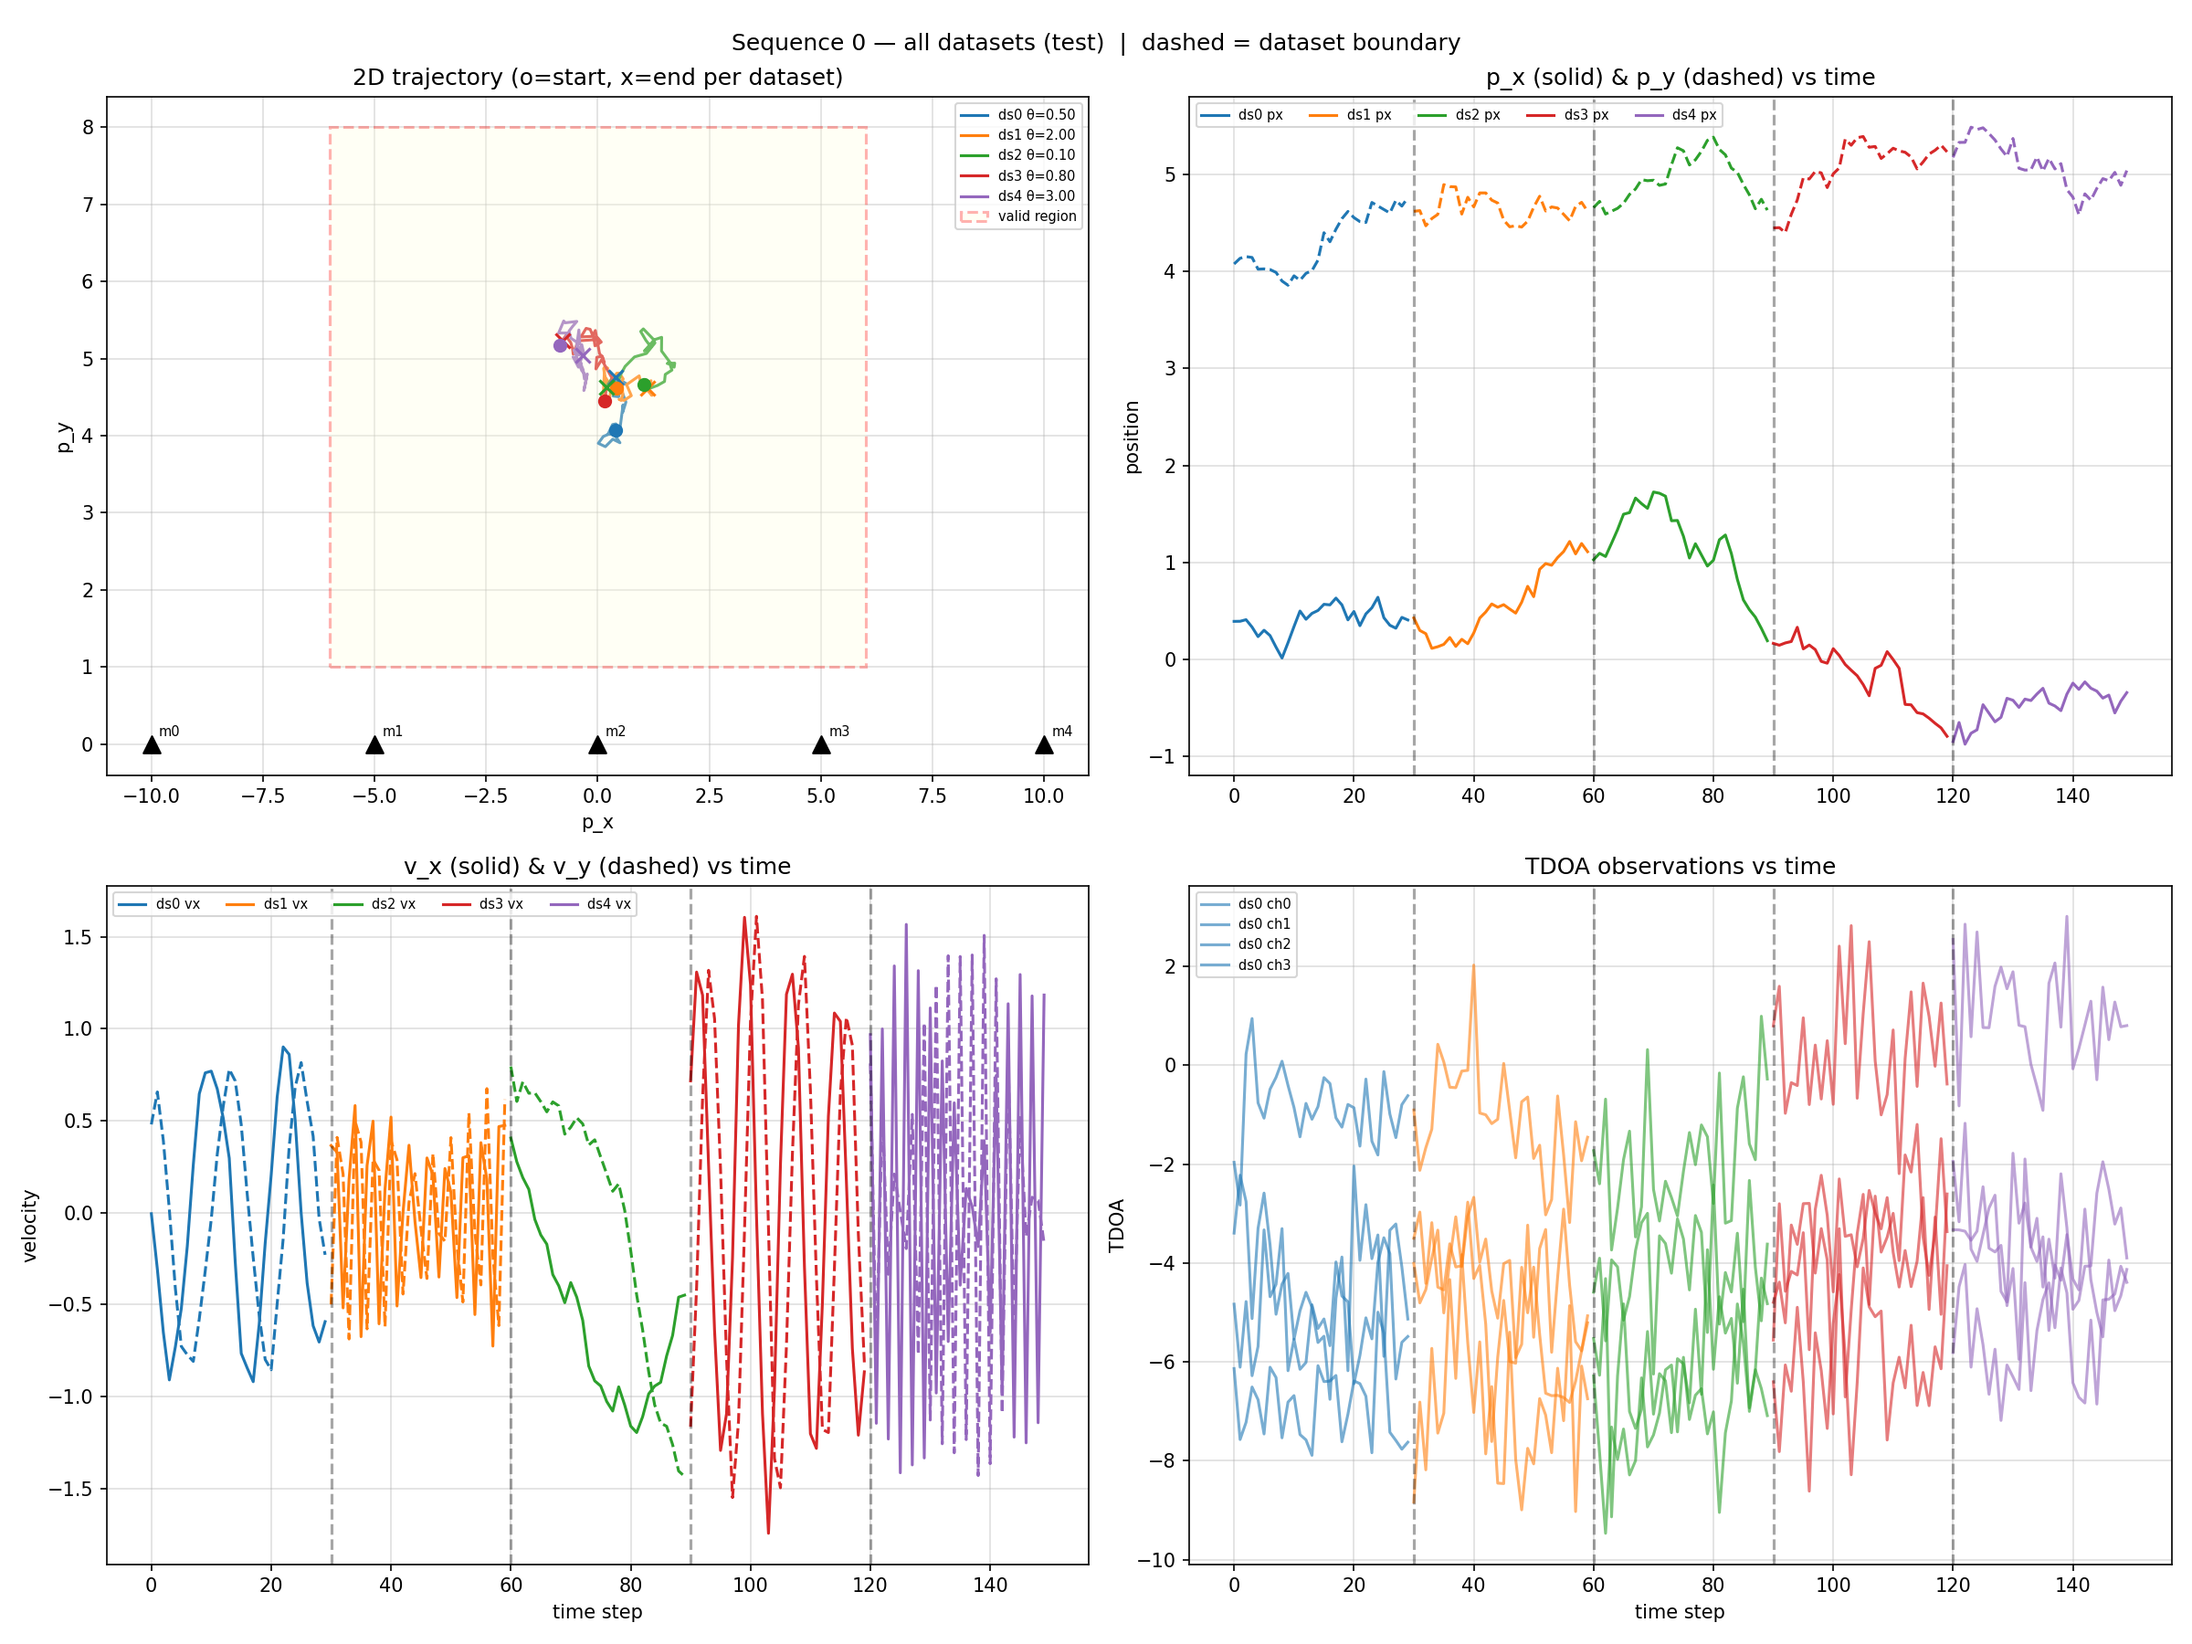
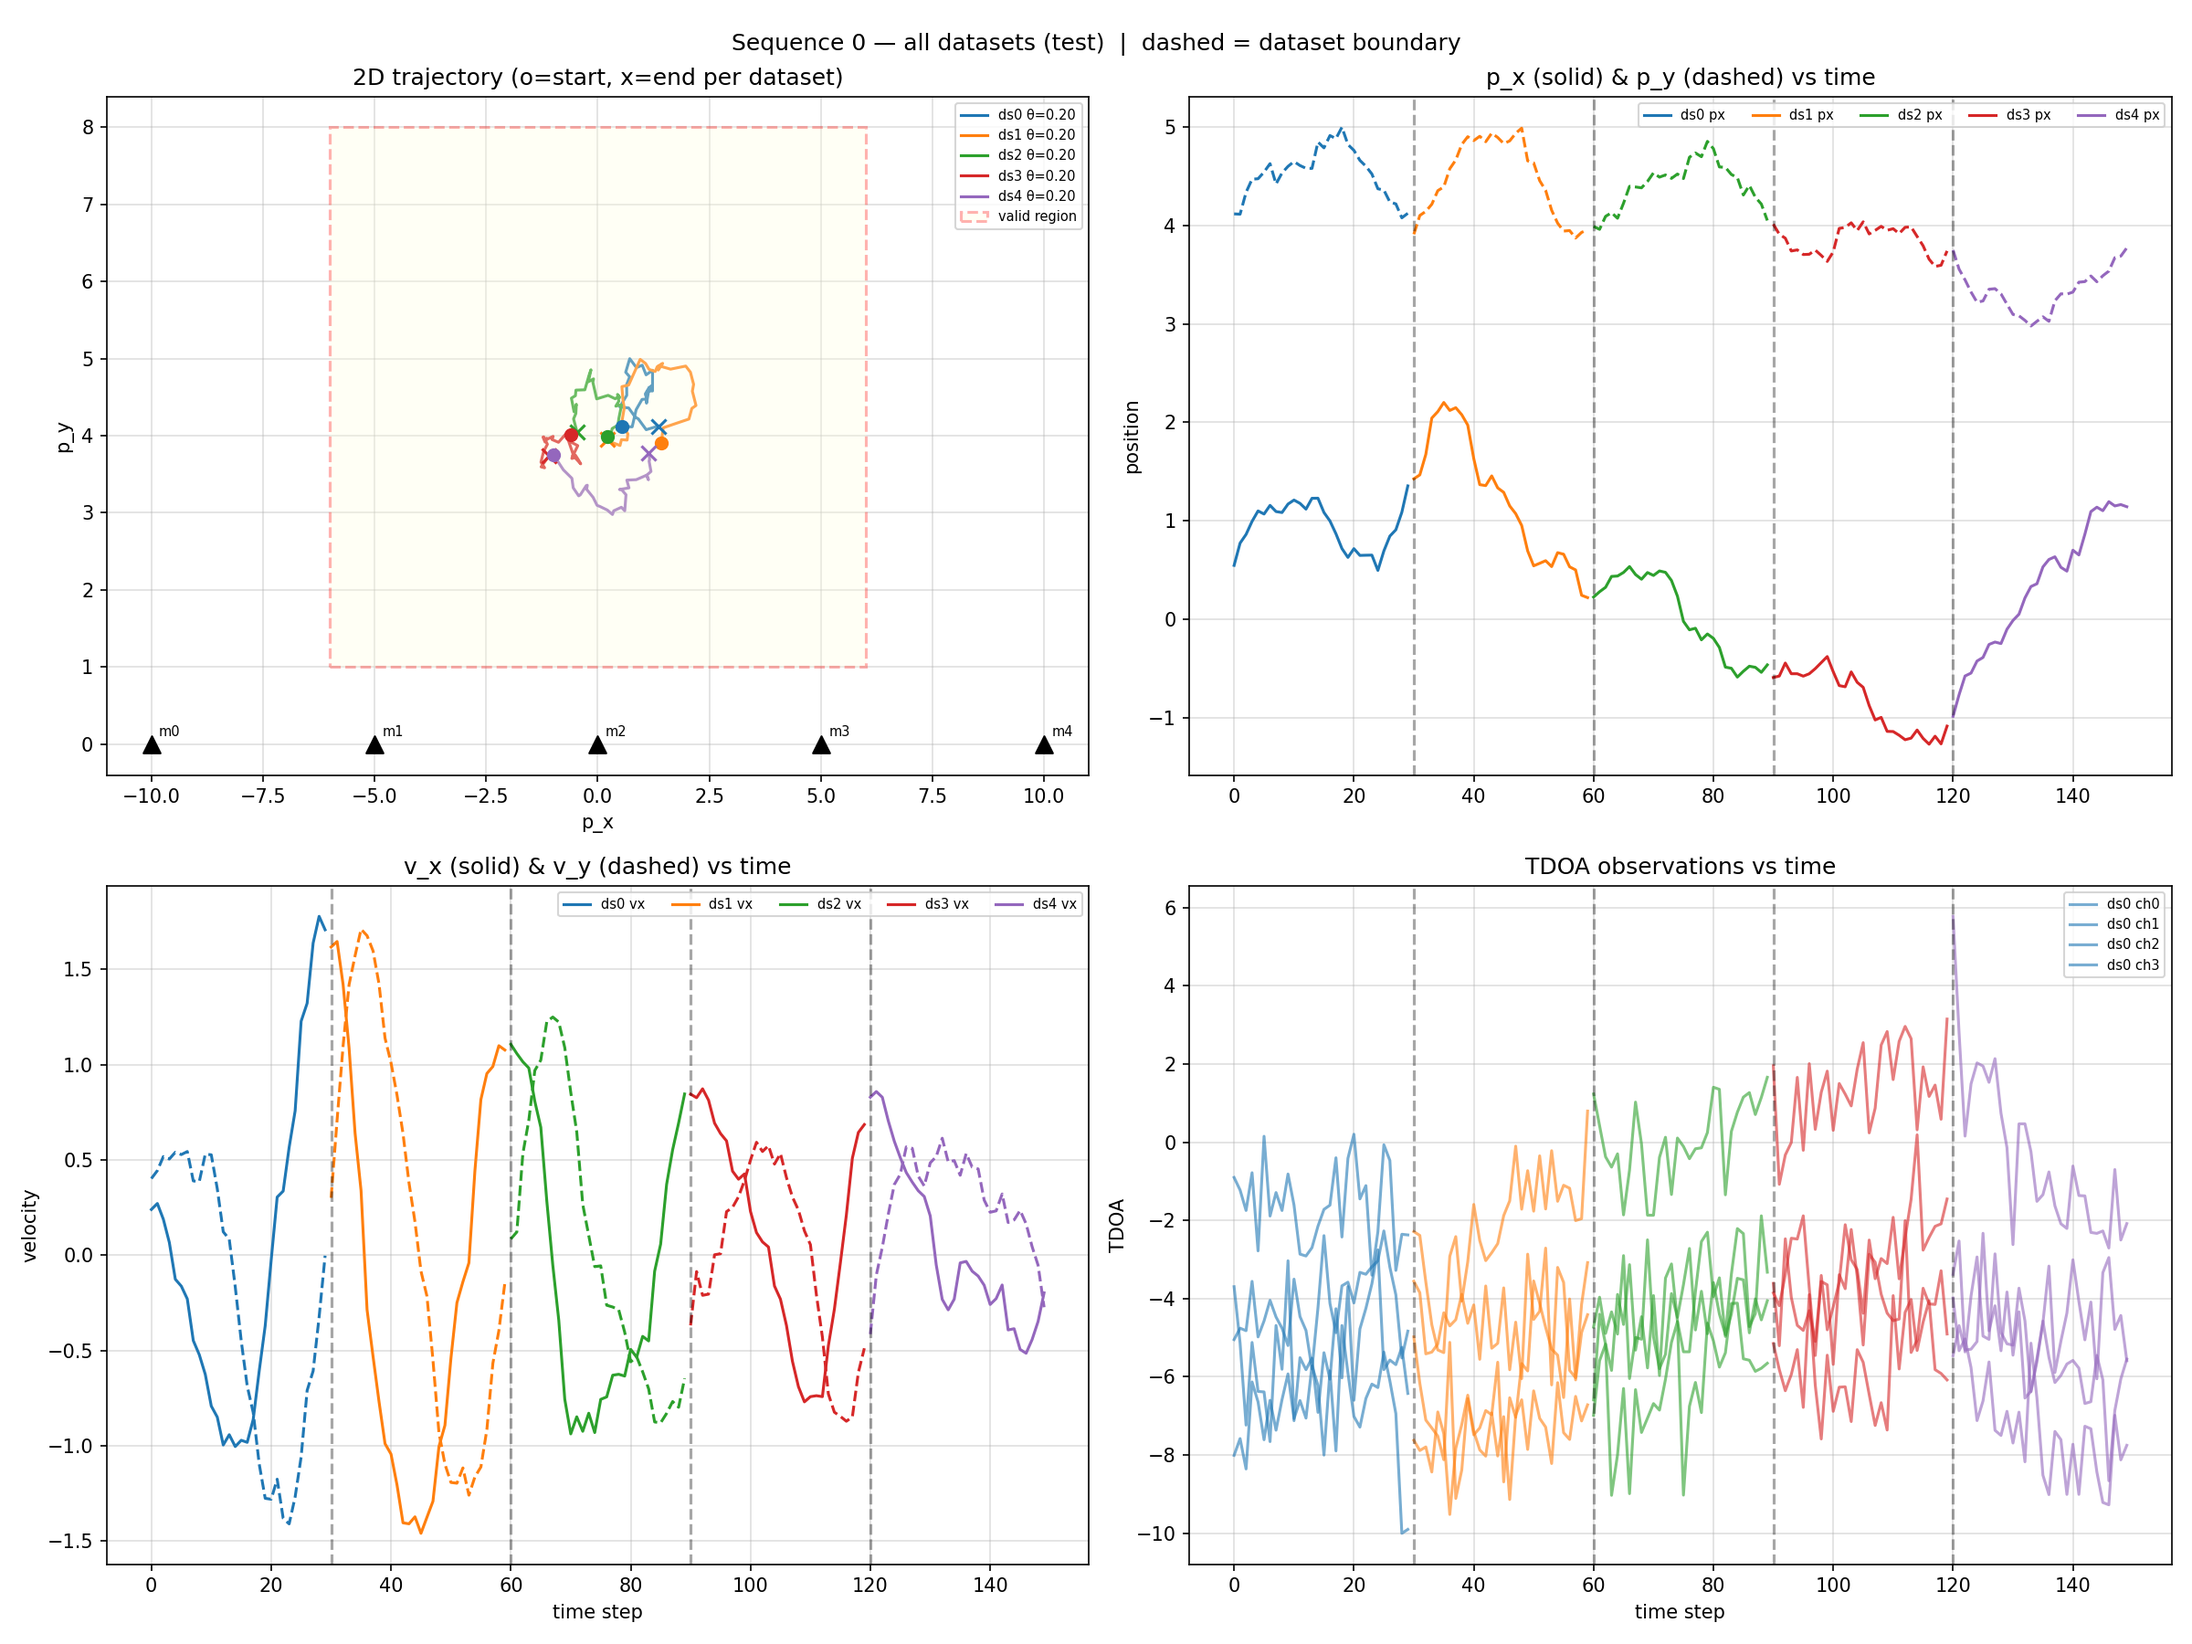
f

diff --git a/microphons_test_analytic_3_dataset.py b/microphons_test_analytic_3_dataset.py
@@ -50,7 +50,7 @@ q2 = 0.01
 r2 = 1
 
 cycle              = 5
-theta_per_dataset  = [0.5, 2, 0.1, 0.8, 3]   # exact theta (rad) for each dataset
+theta_per_dataset  = [0.2, 0.2, 0.2, 0.2, 0.2]   # exact theta (rad) for each dataset
 assert len(theta_per_dataset) == cycle
 
 max_em_iter = 5
